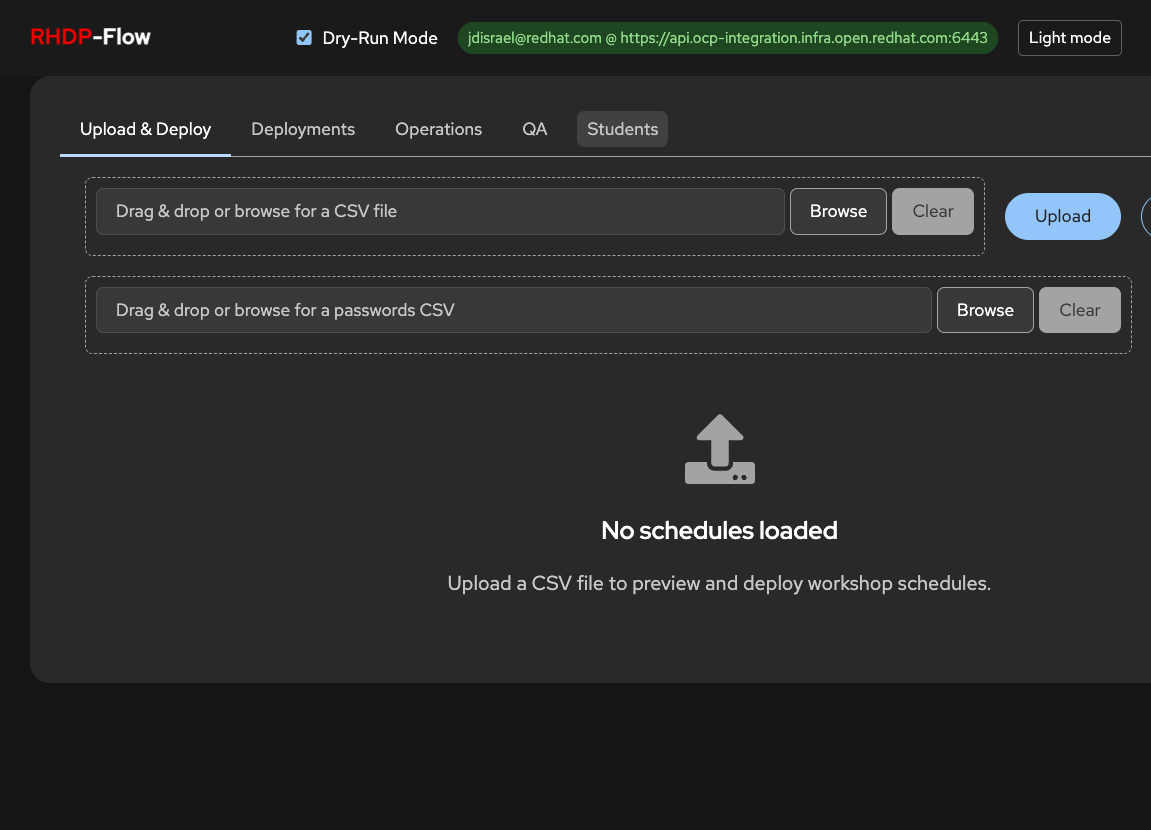
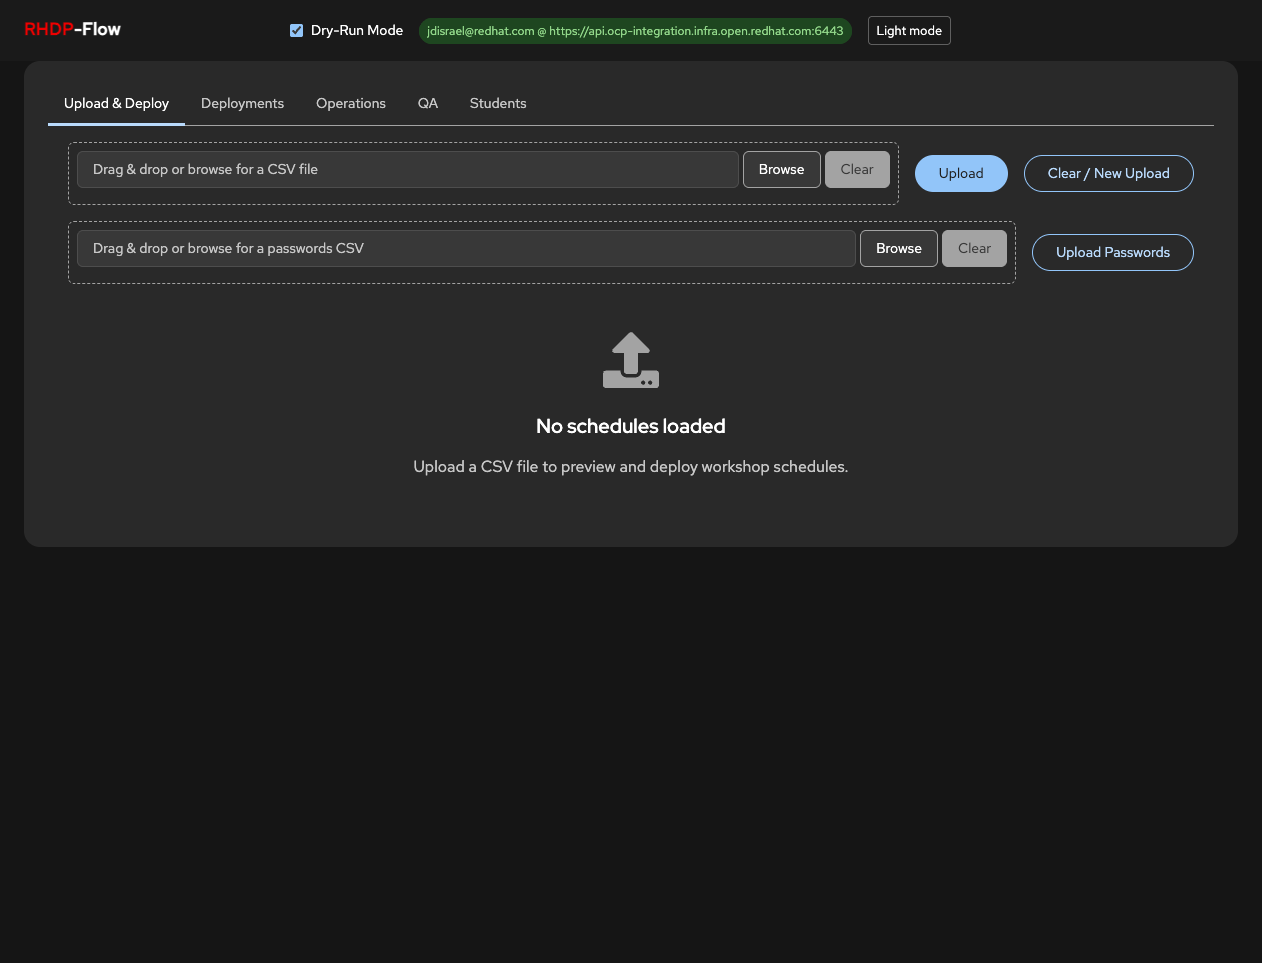
Update README with deploy settings, cluster-aware URLs, and production mode
- Add production mode quick start (single server serves API + React build)
- Document deploy settings toggles (Resource Lock, Resource Pools, White Glove)
- Add cluster-aware URL detection to running instructions
- Update features list with clickable hyperlinks, deploy settings
- Add deploy settings screenshot to docs/images
- Update upload empty state screenshot

diff --git a/RHDP-Scheduler/README.md b/RHDP-Scheduler/README.md
@@ -18,29 +18,26 @@ source .venv/bin/activate
 pip install -r requirements.txt
 
 # 4. Frontend
-cd frontend && npm install && cd ..
+cd frontend && npm install && npm run build && cd ..
 
-# 5. Run (two terminals)
-# Terminal 1 — API (port 8000)
-source .venv/bin/activate
+# 5. Run
 python3 -m uvicorn api.server:app --host 127.0.0.1 --port 8000
-
-# Terminal 2 — Frontend (port 5173, proxies /api → backend)
-cd frontend && npm run dev
 ```
 
-Open **http://localhost:5173** in your browser.
+Open **http://localhost:8000** in your browser.
 
 ## Features
 
 - **Web UI** — React/PatternFly 6 frontend with five tabs: Upload & Deploy, Deployments, Operations, QA, Students
 - **CSV Input** — Drag-and-drop CSV upload with inline validation warnings
 - **Dry-Run Mode** — Preview JSON payloads without creating real resources
+- **Deploy Settings** — Configurable Resource Lock, Resource Pools, and White Glove toggles with sensible defaults
+- **Cluster-Aware URLs** — Workshop and landing page URLs automatically use the domain derived from the connected cluster
 - **Multi-Asset Workshops** — Group multiple CIs into a single MultiWorkshop
 - **Per-Asset Passwords** — Override passwords per CI via companion CSV
 - **Operations** — Lock, extend (stop/destroy), and scale running workshops
 - **QA Verification** — Verify setup (dates/users) and deployment health (seats/URLs)
-- **Results Export** — CSV export with GUIDs and student landing page URLs
+- **Results Export** — CSV export with GUIDs and student landing page URLs; clickable hyperlinks in Deployments and Students tabs
 - **CLI** — Direct command-line deployment and an interactive wizard (`--wizard`)
 - **Risk Prevention** — 13 built-in safeguards (confirmation modals, date validation, live-mode warnings). See [docs/RISK-PREVENTION.md](docs/RISK-PREVENTION.md) for details and screenshots.
 
@@ -137,6 +134,20 @@ oc login https://api.your-cluster.example.com:6443 --token=sha256~your-token
 oc whoami   # should show your user
 ```
 
+### Production Mode (single server)
+
+Build the frontend once, then run the API server — it serves both the API and the built React app:
+
+```bash
+cd frontend && npm run build && cd ..
+source .venv/bin/activate
+python3 -m uvicorn api.server:app --host 127.0.0.1 --port 8000
+```
+
+Open **http://localhost:8000** in your browser.
+
+### Development Mode (two terminals)
+
 Open **two terminals** from the `RHDP-Scheduler` directory:
 
 **Terminal 1 — API server** (port 8000):
@@ -153,7 +164,21 @@ cd frontend
 npm run dev
 ```
 
-Open **http://localhost:5173** in your browser. The masthead shows a green "Connected" badge when the backend and cluster are reachable.
+Open **http://localhost:5173** in your browser.
+
+The masthead shows a green "Connected" badge when the backend and cluster are reachable. Workshop URLs are automatically derived from the connected cluster (e.g., `integration.demo.redhat.com` from `api.integration.demo.redhat.com:6443`).
+
+### Deploy Settings
+
+After uploading a CSV, the **Deploy Settings** card appears with three toggles:
+
+| Setting | Default | Description |
+|---------|---------|-------------|
+| Resource Lock | On | Apply `demo.redhat.com/resource-lock` label to prevent accidental deletion |
+| Enable Resource Pools | Off | Enable Poolboy resource pool allocation |
+| White Glove | On | Apply white-glove label for managed workshops |
+
+![Deploy Settings](docs/images/13-deploy-settings-toggles.png)
 
 ## CSV Format
 

diff --git a/RHDP-Scheduler/docs/RISK-PREVENTION.md b/RHDP-Scheduler/docs/RISK-PREVENTION.md
@@ -22,6 +22,7 @@ All screenshots are in [`docs/images/`](images/) and show the features described
 | [10-qa-tab-guidance-cards.png](images/10-qa-tab-guidance-cards.png) | QA tab: info banner, blue hints, QA1/QA2 explanation cards (Item 13) |
 | [11-deployments-summary-cards.png](images/11-deployments-summary-cards.png) | Deployments: summary cards, search, status filter, auto-refresh |
 | [12-deployments-light-mode.png](images/12-deployments-light-mode.png) | Light mode theme view |
+| [13-deploy-settings-toggles.png](images/13-deploy-settings-toggles.png) | Deploy settings: Resource Lock, Resource Pools, White Glove toggles |
 
 ---
 
